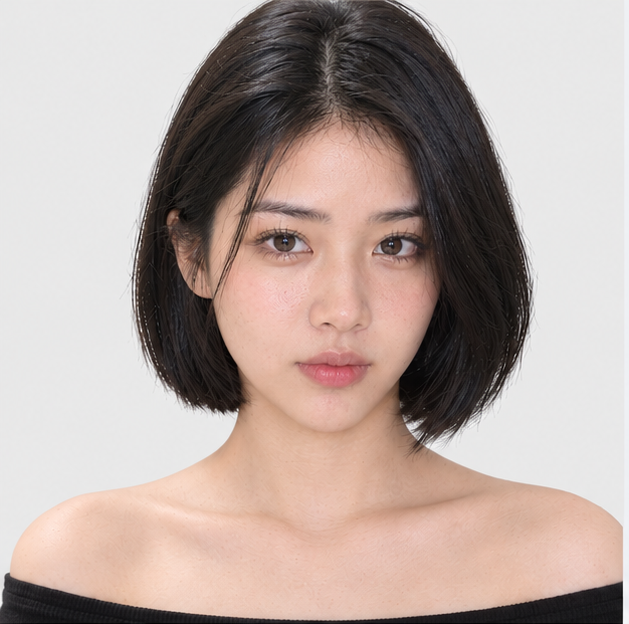
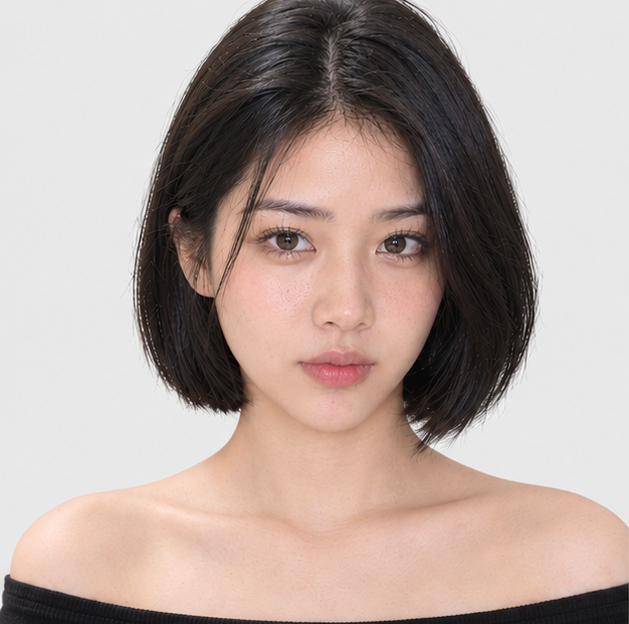
fix(character): fix gap asymmetry, strip AI gutters/borders, and align body-face columns
- Clean 2x2 face grid split in tools/generate_character_sheet.py: trim outer near-white borders and strip middle gutters so face panels join seamlessly without double-thick or asymmetric gaps
- Align body panels with face columns: tight-crop figure silhouette bounding boxes and center horizontally in 629px cells, reducing vertical offset from ~61px to <= 1px
- Dynamically match canvas background with outfit face corner background, standardizing sheet dimensions at canonical 2516x2056 px
- Recompose minimalist_spa_silk and studio_chic_black character sheets; refresh face_anchor.png without gutter artifact
- Drop unsupported text_align drawtext option in pipeline/composer.py

diff --git a/tools/generate_character_sheet.py b/tools/generate_character_sheet.py
@@ -485,6 +485,8 @@ def _split_body_panels(img: Image.Image, count: int = 4) -> list[Image.Image]:
 
     Column/row standard deviation is used instead of background-colour thresholding so
     that a white robe on a light backdrop still separates cleanly from the background.
+    Each figure is tight-cropped to its active silhouette so horizontal centering in its
+    column aligns with the facial portrait below.
     """
     gray = np.asarray(img.convert("L"), dtype=np.float32)
     height, width = gray.shape
@@ -502,48 +504,90 @@ def _split_body_panels(img: Image.Image, count: int = 4) -> list[Image.Image]:
 
     panels: list[Image.Image] = []
     for x0, x1 in spans:
-        row_std = gray[:, x0 : x1 + 1].std(axis=1)
-        rows = np.where(row_std > 4.0)[0]
-        if len(rows) == 0:
+        span_gray = gray[:, x0 : x1 + 1]
+        col_s = span_gray.std(axis=0)
+        row_s = span_gray.std(axis=1)
+        active_cols = np.where(col_s > 4.0)[0]
+        active_rows = np.where(row_s > 4.0)[0]
+        if len(active_cols) == 0 or len(active_rows) == 0:
             return []
-        panels.append(img.crop((x0, int(rows.min()), x1 + 1, int(rows.max()) + 1)))
+        cx0 = x0 + int(active_cols.min())
+        cx1 = x0 + int(active_cols.max())
+        cy0 = int(active_rows.min())
+        cy1 = int(active_rows.max())
+        panels.append(img.crop((cx0, cy0, cx1 + 1, cy1 + 1)))
     return panels
 
 
 def _split_face_grid(grid: Image.Image) -> list[Image.Image]:
-    """Split the 2x2 grid at its quiet gutters, then return four equal panels.
-
-    Finds the widest near-uniform column/row band in the middle 30-70% of each axis.
-    Falls back to the exact midpoint when the model rendered no gutter.
-    """
+    """Split the 2x2 grid by trimming outer white frames and stripping middle gutters."""
     rgb = grid.convert("RGB")
-    arr = np.asarray(rgb).astype(np.int16)
+    arr = np.asarray(rgb)
+    gray = np.asarray(grid.convert("L"), dtype=np.float32)
     w, h = rgb.size
 
-    def _quiet_split(spreads: "np.ndarray", length: int) -> int:
-        lo, hi = int(length * 0.30), int(length * 0.70)
-        best, best_width, run_start = (lo + hi) // 2, 0, None
-        for pos in range(lo, hi):
-            if spreads[pos] <= 6:
-                if run_start is None:
-                    run_start = pos
-            else:
-                if run_start is not None and pos - run_start > best_width:
-                    best, best_width = (run_start + pos) // 2, pos - run_start
-                run_start = None
-        if run_start is not None and hi - run_start > best_width:
-            best = (run_start + hi) // 2
-        return best
+    col_std = gray.std(axis=0)
+    row_std = gray.std(axis=1)
 
-    col_spread = (arr.max(axis=0) - arr.min(axis=0)).max(axis=1)
-    row_spread = (arr.max(axis=1) - arr.min(axis=1)).max(axis=1)
-    split_x = _quiet_split(col_spread, w)
-    split_y = _quiet_split(row_spread, h)
+    # 1. Middle vertical gutter (look in middle 35% to 65%)
+    mid_x = w // 2
+    lo_x, hi_x = int(0.35 * w), int(0.65 * w)
+    quiet_cols = col_std < 3.5
+    runs_x = _quiet_runs(quiet_cols[lo_x:hi_x], min_width=1)
+    runs_x = [(s + lo_x, e + lo_x) for s, e in runs_x]
+    if runs_x:
+        runs_x.sort(key=lambda r: abs((r[0] + r[1]) / 2 - mid_x))
+        x_g_start, x_g_end = runs_x[0]
+    else:
+        x_g_start = x_g_end = mid_x
+
+    # 2. Middle horizontal gutter (look in middle 35% to 65%)
+    mid_y = h // 2
+    lo_y, hi_y = int(0.35 * h), int(0.65 * h)
+    quiet_rows = row_std < 3.5
+    runs_y = _quiet_runs(quiet_rows[lo_y:hi_y], min_width=1)
+    runs_y = [(s + lo_y, e + lo_y) for s, e in runs_y]
+    if runs_y:
+        runs_y.sort(key=lambda r: abs((r[0] + r[1]) / 2 - mid_y))
+        y_g_start, y_g_end = runs_y[0]
+    else:
+        y_g_start = y_g_end = mid_y
+
+    # 3. Outer border frame: trim quiet outer edges that are near white (>235)
+    max_border = int(0.04 * min(w, h))
+    left = 0
+    for x in range(max_border):
+        if arr[:, x, :3].mean() > 235:
+            left = x + 1
+        else:
+            break
+
+    right = w
+    for x in range(w - 1, w - 1 - max_border, -1):
+        if arr[:, x, :3].mean() > 235:
+            right = x
+        else:
+            break
+
+    top = 0
+    for y in range(max_border):
+        if arr[y, :, :3].mean() > 235:
+            top = y + 1
+        else:
+            break
+
+    bottom = h
+    for y in range(h - 1, h - 1 - max_border, -1):
+        if arr[y, :, :3].mean() > 235:
+            bottom = y
+        else:
+            break
+
     boxes = [
-        (0, 0, split_x, split_y),
-        (split_x, 0, w, split_y),
-        (0, split_y, split_x, h),
-        (split_x, split_y, w, h),
+        (left, top, x_g_start, y_g_start),
+        (x_g_end + 1, top, right, y_g_start),
+        (left, y_g_end + 1, x_g_start, bottom),
+        (x_g_end + 1, y_g_end + 1, right, bottom),
     ]
     return [rgb.crop(box) for box in boxes]
 
@@ -552,33 +596,43 @@ def compose_character_sheet(
     body_path: Path,
     faces_path: Path,
     output_path: Path,
-    background: tuple[int, int, int] = SHEET_BG,
+    background: tuple[int, int, int] | None = None,
 ) -> tuple[int, int]:
     """Compose the canonical 4-body-over-4-face layout at ``SHEET_WIDTH`` px."""
     with Image.open(body_path) as body_img, Image.open(faces_path) as faces_img:
+        faces = _split_face_grid(faces_img)
+        if background is None:
+            p0_arr = np.asarray(faces[0])
+            pw, ph = faces[0].size
+            corner = p0_arr[: max(1, int(0.08 * ph)), : max(1, int(0.08 * pw)), :3]
+            background = tuple(int(round(x)) for x in corner.mean(axis=(0, 1)))
+
         body_source = body_img.convert("RGB")
         body_bg = _border_background_mask(body_source)
         body = _replace_background(body_source, body_bg, background)
         body = _trim_to_subject(body, bg_mask=body_bg)
-        faces = _split_face_grid(faces_img)
 
-    body_width, body_height = body.size
-    scaled_height = max(1, round(body_height * SHEET_WIDTH / body_width))
     panels = _split_body_panels(body)
+    cell_w = SHEET_WIDTH // 4  # 629 px
+    TARGET_SCALED_HEIGHT = 1260
+    TARGET_COMMON_HEIGHT = round(TARGET_SCALED_HEIGHT * 0.92)  # 1159 px
+
     if len(panels) == 4:
-        cell_w = SHEET_WIDTH // 4
-        common_height = min((cell_w * 0.96) * panel.height / panel.width for panel in panels)
-        scaled_height = max(1, round(common_height / 0.92))
+        common_height = min(TARGET_COMMON_HEIGHT, min((cell_w * 0.90) * p.height / p.width for p in panels))
+        scaled_height = TARGET_SCALED_HEIGHT
         body_row = Image.new("RGB", (SHEET_WIDTH, scaled_height), background)
         for index, panel in enumerate(panels):
             scale = common_height / panel.height
-            resized = panel.resize((max(1, round(panel.width * scale)), max(1, round(panel.height * scale))), Image.LANCZOS)
-            body_row.paste(
-                resized,
-                (index * cell_w + (cell_w - resized.width) // 2, (scaled_height - resized.height) // 2),
-            )
+            new_w = max(1, round(panel.width * scale))
+            new_h = max(1, round(panel.height * scale))
+            resized = panel.resize((new_w, new_h), Image.LANCZOS)
+            pos_x = index * cell_w + (cell_w - new_w) // 2
+            pos_y = (scaled_height - new_h) // 2
+            body_row.paste(resized, (pos_x, pos_y))
         body = body_row
     else:
+        body_w, body_h = body.size
+        scaled_height = max(1, round(body_h * SHEET_WIDTH / body_w))
         body = body.resize((SHEET_WIDTH, scaled_height), Image.LANCZOS)
 
     face_w, face_h = FACE_PANEL

diff --git a/pipeline/composer.py b/pipeline/composer.py
@@ -492,7 +492,7 @@ def compose_master_commercial(
             caption_filters.append(
                 f"drawtext=fontfile='{_filter_quote(font_path)}':textfile='{_filter_quote(str(text_file))}':"
                 f"expansion=none:fontcolor=white:fontsize={font_size}:line_spacing={layout.line_spacing}:"
-                f"box=1:boxcolor=black@0.65:boxborderw={layout.box_border}:text_align=center:"
+                f"box=1:boxcolor=black@0.65:boxborderw={layout.box_border}:"
                 f"x=(w-text_w)/2:y=h-{layout.bottom_margin}-text_h-{layout.box_border}:"
                 f"enable='between(t,{start_t:.3f},{visible_end:.3f})'"
             )
